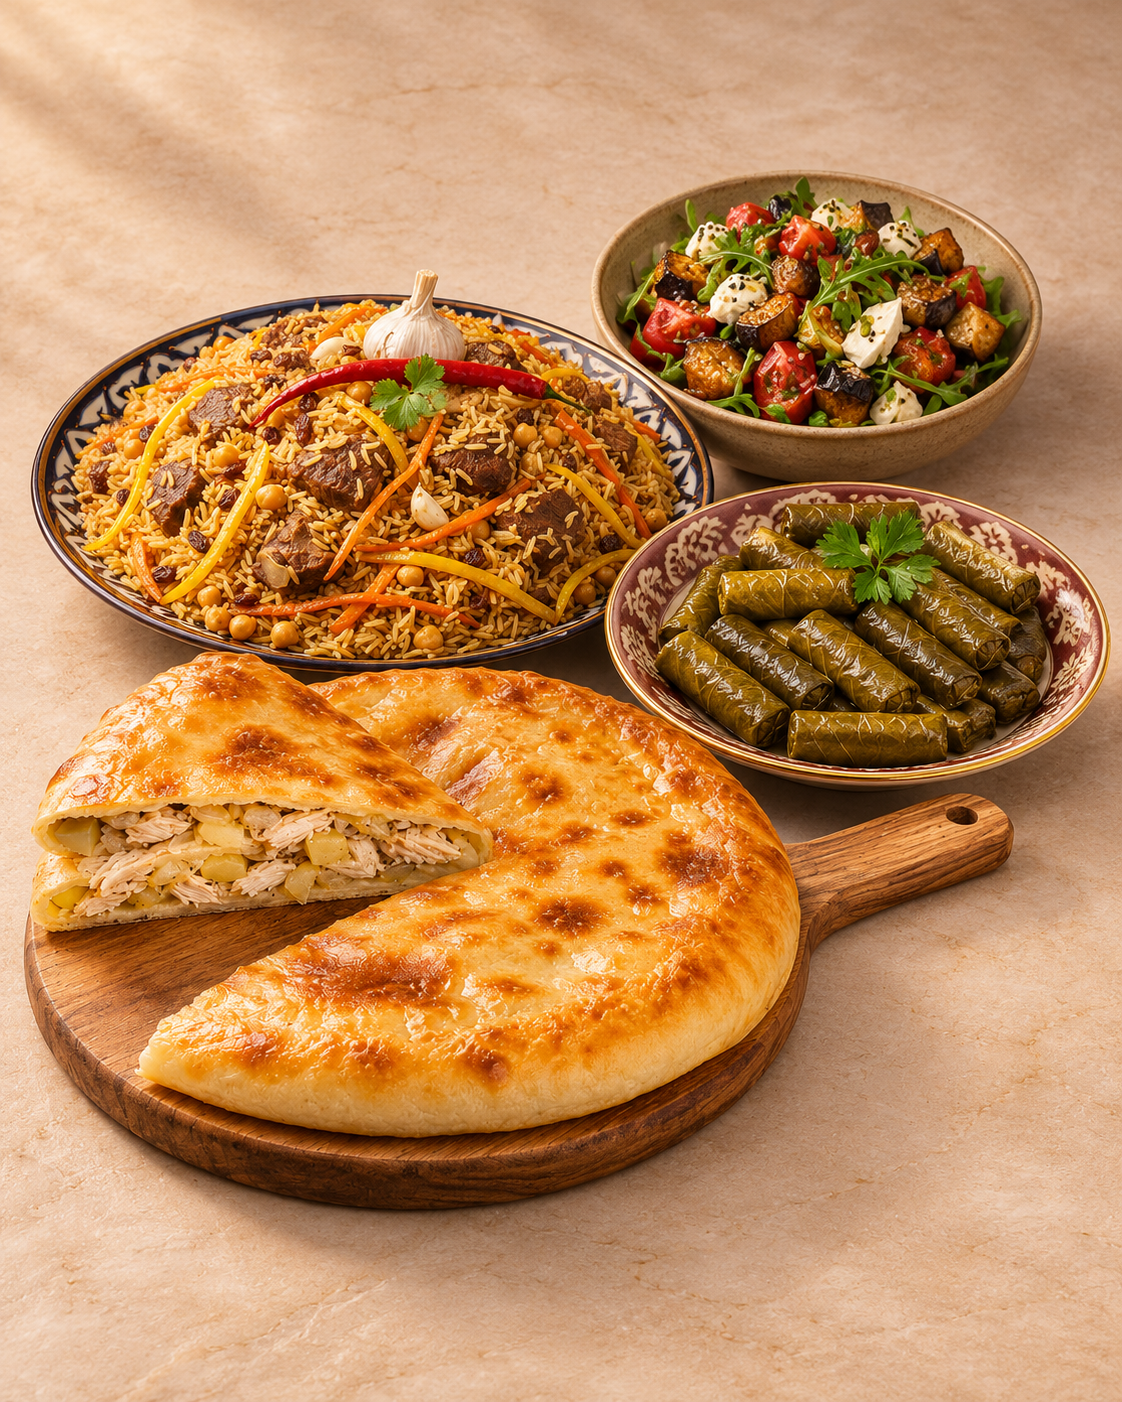
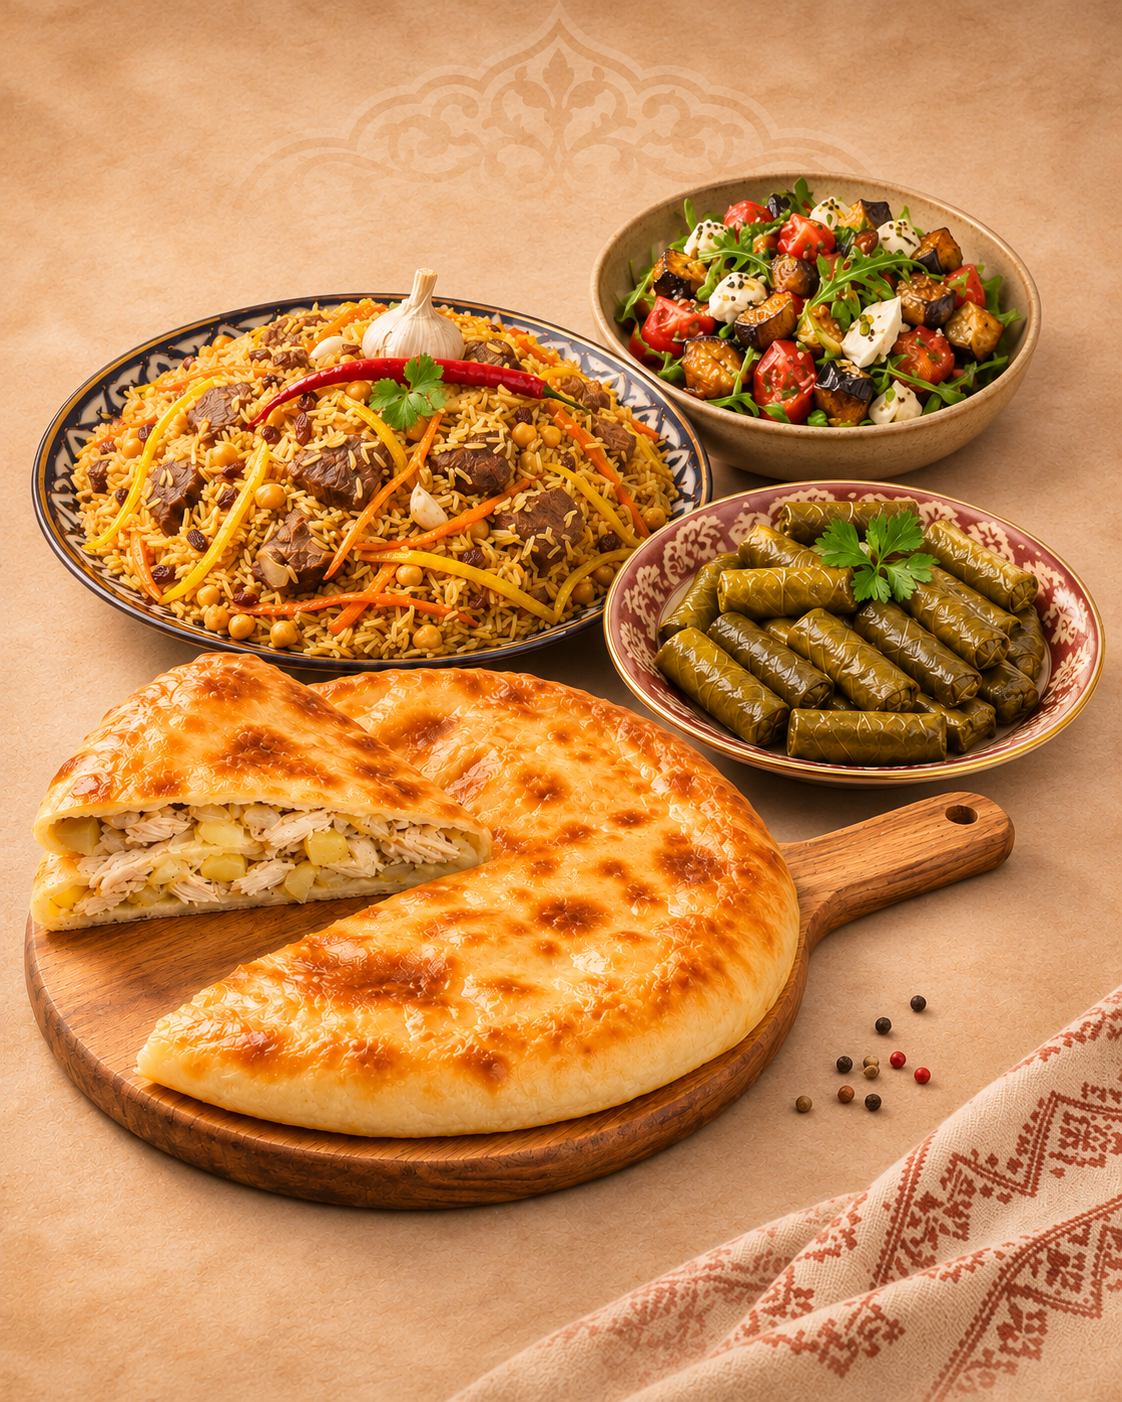
Publish Vkus Dinara website

diff --git a/style.css b/style.css
@@ -45,6 +45,7 @@ button,input{font:inherit}
 .hero .nav-address:focus-visible{outline:2px solid var(--gold);outline-offset:4px;border-radius:4px}
 .nav-phones{display:flex;align-items:center;gap:10px;flex:0 0 auto;min-height:48px}
 .nav-phones>div{display:flex;flex-direction:column;gap:4px}
+.mobile-contact-title,.mobile-map-label,.nav-phone-row-icon{display:none}
 .nav-phones a{display:inline-flex;align-items:center;min-height:22px;font-size:14px;line-height:22px;font-weight:800;white-space:nowrap}
 .phone-icon{width:25px;height:25px;fill:#a01112;flex-shrink:0}
 .nav-max-group{display:flex;align-items:center;gap:10px;flex:0 0 auto}
@@ -244,53 +245,73 @@ footer{background:#25150f;color:#e9d8cc}
   body{padding-bottom:calc(104px + env(safe-area-inset-bottom,0px))}
   .shell{width:calc(100% - 32px)}
   .hero .shell{width:calc(100% - 28px)}
-  .hero .nav.shell{width:100%;padding-inline:14px}
+  .hero{display:flex;flex-direction:column;align-items:center}
+  .hero .nav.shell{display:contents}
   .nav{gap:8px;padding:6px 0}
-  .header-left{display:grid;grid-template-columns:minmax(0,1fr);justify-items:center;gap:4px;width:100%}
-  .brand-group{flex:0 0 auto;gap:10px;min-width:0}
-  .nav-order-info{width:100%;justify-content:space-between;gap:10px;text-align:left;font-size:12px}
-  .nav-order-copy strong{font-size:13px}
-  .nav-order-info .menu-download-placeholder{min-height:44px}
+  .header-left{display:contents}
+  .brand-group{order:0;flex:0 0 auto;justify-content:center;gap:12px;min-width:0;width:calc(100% - 28px);margin:12px auto 2px}
+  .nav-order-info{order:2;display:grid;grid-template-columns:repeat(2,minmax(0,1fr));width:calc(100% - 32px);align-items:center;gap:10px;text-align:left;font-size:12px;margin:0 auto;padding:8px 0;border-top:1px solid var(--line)}
+  .nav-order-copy{min-width:0;gap:2px;white-space:normal}
+  .nav-order-copy strong{font-size:14px;font-weight:700}
+  .nav-order-copy>span{font-size:12px;font-weight:400}
+  .nav-order-info .menu-download-placeholder{width:100%;min-width:0;min-height:44px;justify-content:center;padding:8px 12px;border:1px solid var(--line);border-radius:12px;background:rgba(255,253,249,.65);font-size:12px;gap:7px}
+  .menu-download-placeholder svg{width:16px;height:16px}
   .logo{gap:6px}
-  .logo-mark{width:50px;height:50px}
-  .logo b{font-size:26px}
-  .logo small{font-size:8px;letter-spacing:.12em;margin-top:5px}
-  .halal-seal{display:grid;width:44px;min-width:44px;height:44px;padding-left:8px}
-  .halal-seal>span{font-size:25px}
-  .halal-seal small{font-size:8px;margin-top:2px}
+  .logo-mark{width:56px;height:56px}
+  .logo b{font-size:28px}
+  .logo small{font-size:8.5px;letter-spacing:.12em;margin-top:5px}
+  .halal-seal{display:grid;width:50px;min-width:50px;height:50px;padding-left:9px}
+  .halal-seal>span{font-size:28px}
+  .halal-seal small{font-size:9px;margin-top:2px}
   .nav-contact-group{
-    display:grid;grid-template-columns:minmax(0,1.16fr) minmax(0,1fr);
-    align-items:center;justify-content:stretch;gap:8px;width:100%
+    display:grid;grid-template-columns:repeat(2,minmax(0,1fr));
+    order:3;align-items:stretch;justify-content:stretch;gap:10px;width:calc(100% - 32px);margin:0 auto 12px
   }
-  .hero .nav-address{gap:5px;justify-content:flex-start;text-align:left;font-size:clamp(12px,3.1vw,13px);line-height:1.35;min-height:48px}
-  .contact-map-hint{flex-basis:26px;font-size:8px;line-height:10px}
-  .contact-map-hint svg{width:16px;height:16px}
-  .nav-phones{gap:4px;justify-content:flex-start;min-width:0}
-  .nav-phones>div{gap:2px}
-  .nav-phones a{font-size:13px;font-weight:700}
-  .nav-phones .phone-icon{width:16px;height:16px}
-  .nav-max-group{grid-column:1/-1;display:grid;grid-template-columns:92px minmax(0,1fr);gap:10px;width:min(100%,284px);justify-self:center}
-  .nav-max-qr{width:92px;height:92px;padding:8px}
-  .nav-max{width:100%;height:92px;min-height:92px;padding:8px;gap:8px;justify-content:center}
+  .hero .nav-address,.nav-phones{display:grid;grid-template-columns:20px minmax(0,1fr);grid-template-rows:20px auto;align-content:start;align-items:center;gap:4px 6px;min-width:0;padding:12px;border:1px solid var(--line);border-radius:12px;background:rgba(255,253,249,.55)}
+  .hero .nav-address{justify-content:start;text-align:left;font-size:12px;line-height:1.4;min-height:48px}
+  .mobile-contact-title{display:block;font-size:13px;line-height:20px;font-weight:700;color:var(--ink)}
+  .contact-map-hint{grid-column:1;grid-row:1;margin:0;line-height:1}
+  .contact-map-hint svg{width:20px;height:20px}
+  .desktop-map-label{display:none}
+  .nav-address-copy{grid-column:1/-1;overflow-wrap:break-word;font-weight:500}
+  .mobile-map-label{display:block;grid-column:1/-1;font-size:11px;line-height:16px;color:var(--red);font-weight:600}
+  .nav-address:hover .mobile-map-label{text-decoration:underline;text-underline-offset:3px}
+  .nav-phones{grid-template-columns:minmax(0,1fr);grid-template-rows:auto;align-content:start}
+  .nav-phones>div{grid-column:1/-1;min-width:0;gap:4px}
+  .nav-phones a{min-height:32px;gap:5px;justify-content:flex-start;font-size:clamp(13px,3.5vw,14px);font-weight:700}
+  .nav-phones>.phone-icon,.nav-phones>.mobile-contact-title{display:none}
+  .nav-phone-row-icon{display:block;flex:0 0 14px;width:14px;height:14px;fill:#a01112}
+  .nav-max-group{grid-column:1/-1;display:grid;grid-template-columns:repeat(2,minmax(0,1fr));align-items:stretch;gap:10px;width:100%;justify-self:center}
+  .nav-max-qr{justify-self:center;width:96px;height:auto;aspect-ratio:1;padding:10px;border-radius:12px;background:var(--card)}
+  .nav-max{width:100%;min-width:0;height:auto;min-height:0;padding:10px;gap:7px;justify-content:center;border-radius:12px;background:var(--card)}
   .nav-max-logo{width:32px;height:32px}
-  .nav-max-copy{font-size:12px;gap:3px}
-  .hero-grid{padding:14px 0 20px;gap:12px}
-  .hero h1{font-size:clamp(32px,8.4vw,38px);margin:0 0 12px;line-height:1.04}
-  .hero h1 em{margin-top:.08em;line-height:1.08}
-  .hero-ending{gap:.16em}
-  .hero-ending-text{padding-bottom:.16em}
-  .hero-heart{flex-basis:.52em;width:.52em;height:.52em;margin-top:.11em}
-  .hero p{font-size:14px;line-height:1.45;margin:8px 0 12px}
-  .hero-features{grid-template-columns:1fr 1fr;gap:10px;margin:14px 0}
-  .hero-features>div{font-size:11.5px;line-height:1.4;gap:8px}
-  .hero-features>div:nth-child(even){border-right:0}
-  .hero-features svg{width:24px;height:24px}
-  .hero-actions{gap:8px;margin-top:14px;text-align:center}
+  .nav-max-copy{font-size:13px;font-weight:700;gap:3px}
+  .hero-grid{order:1;display:flex;flex-direction:column;padding:14px 0;gap:12px}
+  .hero-copy{display:contents}
+  .hero h1{order:0;width:100%;font-size:clamp(16px,4.8vw,24px);margin:0;line-height:1.35;white-space:nowrap;text-align:center}
+  .hero-title-line,.hero-accent-line,.hero-ending{display:inline}
+  .hero h1 em{display:inline;margin:0;font-size:1em;line-height:inherit}
+  .hero-accent-line{margin:0}
+  .hero-ending-text{padding:0}
+  .hero-heart,.hero-underline{display:none}
+  .hero p{order:3;width:100%;font-size:14px;line-height:1.45;margin:0}
+  .hero-features{order:4;width:100%;grid-template-columns:repeat(2,minmax(0,1fr));gap:12px;margin:0}
+  .hero-features>div{display:grid;grid-template-columns:46px minmax(0,1fr);min-width:0;align-items:center;font-size:12px;font-weight:600;line-height:1.4;gap:8px;padding-right:0;border-right:0}
+  .hero-features svg{width:28px;height:28px;justify-self:center}
+  .hero-features .halal-word{display:flex;align-items:center;justify-content:center;width:46px;font-size:28px;line-height:1}
+  .hero-actions{order:2;width:100%;gap:8px;margin:0;text-align:center}
   .hero-actions .btn{flex:1;min-width:0;min-height:40px;padding:9px 7.2px;font-size:12.5px;gap:7px}
   .hero-actions .phone-icon{width:18px;height:18px}
-  .hero-photo{height:clamp(390px,100vw,410px);margin:0 auto;border-radius:50% 50% 34px 34px}
-  .hero-composition{bottom:68px;height:calc(100% - 68px)}
-  .hero-label{height:68px;padding:2px 18px}
+  .hero-photo{order:1;flex:none;width:95%;height:auto;margin:2px auto;border-radius:50% 50% 34px 34px / 22% 22% 34px 34px;box-shadow:0 12px 28px rgba(95,45,31,.10)}
+  .hero-photo::before{
+    content:"";position:absolute;inset:0 0 68px;z-index:1;pointer-events:none;opacity:.08;
+    background:
+      repeating-linear-gradient(45deg,transparent 0 11px,#a67a3b 11px 12px,transparent 12px 23px),
+      repeating-linear-gradient(-45deg,transparent 0 11px,#a67a3b 11px 12px,transparent 12px 23px);
+    mask-image:linear-gradient(to bottom,#000,transparent 9%,transparent 91%,#000)
+  }
+  .hero-composition{position:relative;inset:auto;width:100%;height:auto;object-fit:contain}
+  .hero-label{position:relative;inset:auto;height:68px;padding:2px 18px}
   .hero-label b{font-size:31px}
   .intro{padding:24px 0 16px}
   .intro h2,.contacts h2{font-size:48px}

diff --git a/index.html b/index.html
@@ -32,12 +32,15 @@
     </div>
     <div class="nav-contact-group header-right">
       <a class="nav-address contact-address" href="https://www.google.com/maps/search/?api=1&amp;query=45.849382,48.123783" target="_blank" rel="noopener">
-        <small class="contact-map-hint"><svg viewBox="0 0 24 24" aria-hidden="true" focusable="false"><path d="M19 10c0 5-7 11-7 11S5 15 5 10a7 7 0 1 1 14 0Z"/><circle cx="12" cy="10" r="2.5"/></svg>На карте</small>
-        <span>пос. Кировский,<br>ул. Народная, 13 “Б”</span>
+        <small class="contact-map-hint"><svg viewBox="0 0 24 24" aria-hidden="true" focusable="false"><path d="M19 10c0 5-7 11-7 11S5 15 5 10a7 7 0 1 1 14 0Z"/><circle cx="12" cy="10" r="2.5"/></svg><span class="desktop-map-label">На карте</span></small>
+        <strong class="mobile-contact-title">Наш адрес</strong>
+        <span class="nav-address-copy">пос. Кировский,<br>ул. Народная, 13 “Б”</span>
+        <small class="mobile-map-label">Открыть на карте</small>
       </a>
       <div class="nav-phones" aria-label="Телефоны для заказа">
         <svg class="phone-icon" viewBox="0 0 24 24" aria-hidden="true"><path d="m5 3 4 1 1 5-2 2a15 15 0 0 0 5 5l2-2 5 1 1 4c-2 5-8 2-12-2S2 5 5 3Z"/></svg>
-        <div><a href="tel:+79021106367">+7 902 110-63-67</a><a href="tel:+79884695555">+7 988 469-55-55</a></div>
+        <strong class="mobile-contact-title">Телефоны</strong>
+        <div><a href="tel:+79021106367"><svg class="nav-phone-row-icon" viewBox="0 0 24 24" aria-hidden="true"><path d="m5 3 4 1 1 5-2 2a15 15 0 0 0 5 5l2-2 5 1 1 4c-2 5-8 2-12-2S2 5 5 3Z"/></svg>+7 902 110-63-67</a><a href="tel:+79884695555"><svg class="nav-phone-row-icon" viewBox="0 0 24 24" aria-hidden="true"><path d="m5 3 4 1 1 5-2 2a15 15 0 0 0 5 5l2-2 5 1 1 4c-2 5-8 2-12-2S2 5 5 3Z"/></svg>+7 988 469-55-55</a></div>
       </div>
       <div class="nav-max-group">
         <a class="nav-max-qr" href="https://max.ru/join/qPMYiOZf_FWLU8iuaAJ5ht9mG_b1wyD7M9K_dCzlwOY" target="_blank" rel="noopener" aria-label="Открыть MAX по QR-коду">
